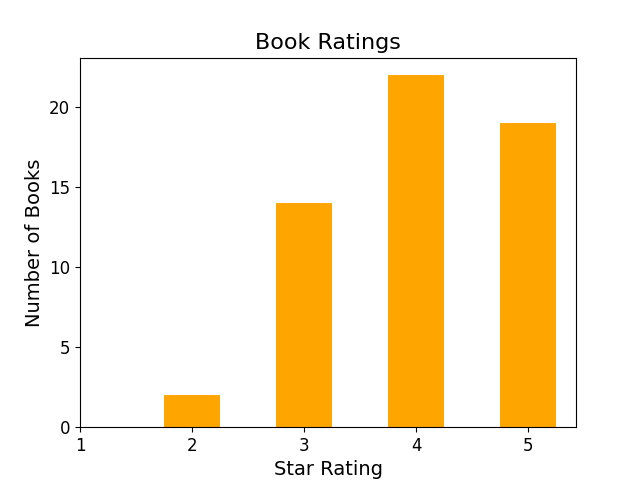
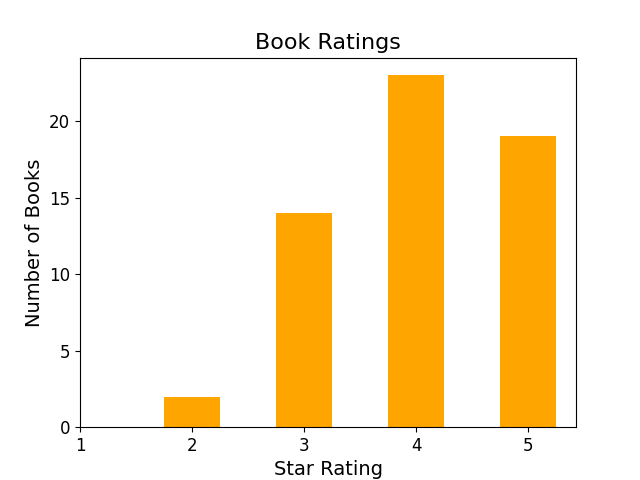
added book and updated mistake in classical codes

diff --git a/errorCorrection1_classical.md b/errorCorrection1_classical.md
@@ -33,7 +33,7 @@ https://doi.org/10.1103/PhysRevA.86.032324)
 - Lectures On Computation, Feynman, R.P.
 - [Quantum error correction and fault tolerance: A comprehensive tutorial](https://doi.org/10.48550/arXiv.2605.29137)
 - [Blog by Arthur Pesah](https://arthurpesah.me/)
--[But what are Hamming codes? The origin of error correction](https://www.youtube.com/watch?v=X8jsijhllIA)
+- [But what are Hamming codes? The origin of error correction](https://www.youtube.com/watch?v=X8jsijhllIA)
 
 ## Noise in Classical Information Processing
 
@@ -117,8 +117,8 @@ The rate, $R$, of an error correcting code is then the ratio of the logical bits
 \begin{equation}
 R = \frac{k}{n}.
 \end{equation}
-(section_parity_check_codes_target)=
 
+(section_parity_check_codes_target)=
 ### Parity Check Codes
 
 Here, we introduce the notion of parity checks and give some examples of how they can be used in classical error correcting codes. 

diff --git a/Miscellaneous_books.md b/Miscellaneous_books.md
@@ -136,6 +136,7 @@ Additional info:
 
 - **The Anarchy: The Relentless Rise of the East India Company**, _William Dalrymple_, 5 ⭐
 - **Homage to Catalonia**, _George Orwell_, 3 ⭐ 🛸
+- **Killers of the Flower Moon**, _David Grann_, 4 ⭐ 🛸
 
 # Data
 
